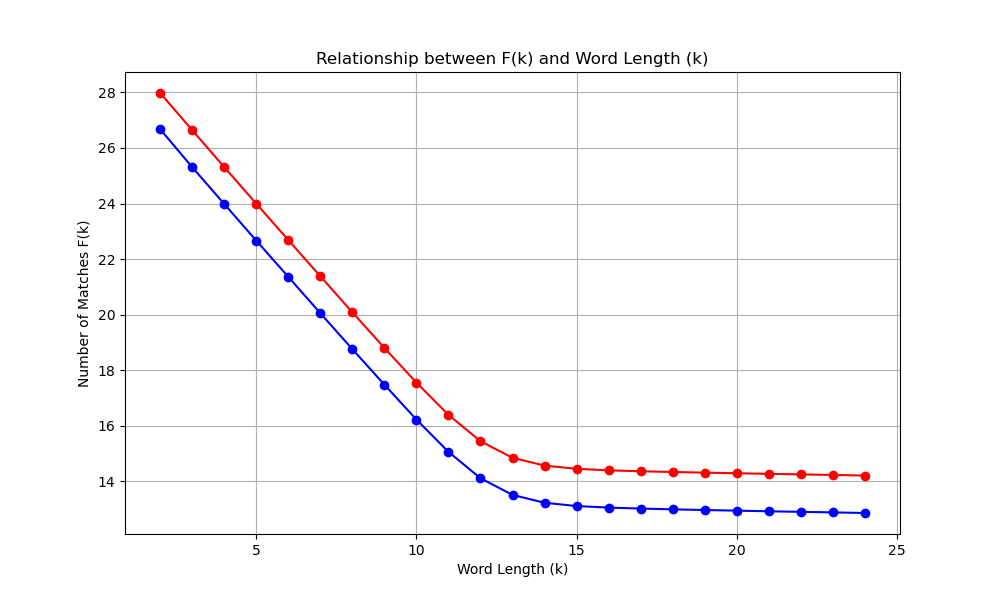
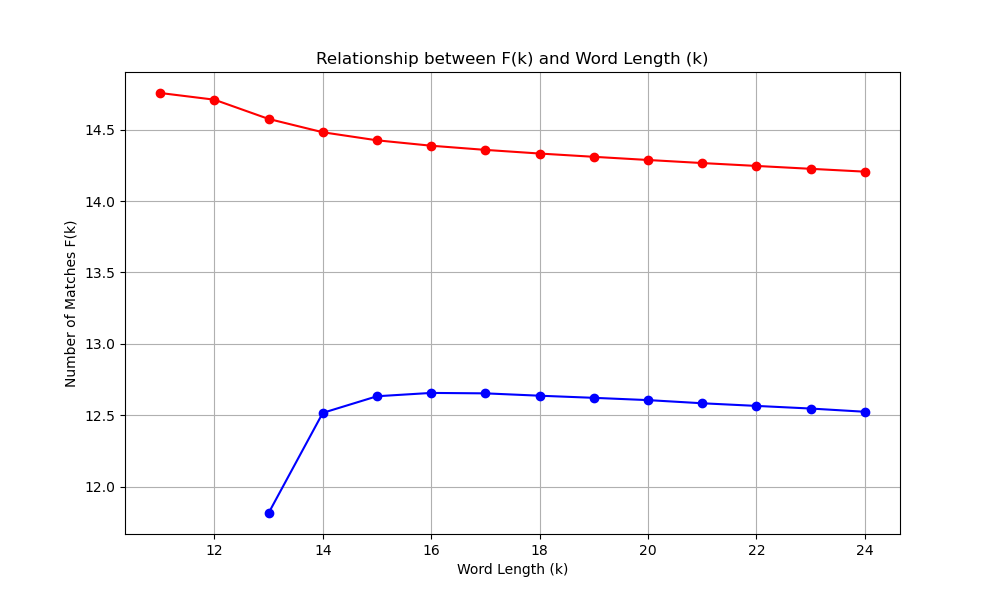
add non-homo + change multi to min

diff --git a/model/F_k_function.py b/model/F_k_function.py
@@ -7,62 +7,175 @@ sys.path.append(project_root)
 import math
 import numpy as np
 from tqdm import tqdm
+
 from model.subsequence_method import *
+from utils.sequence_tool import *
 
+class F_k_function_paper:
+    def __init__(self, seq1: str, seq2: str, method, args):
+        self.method = method
+        self.single_seq = args.get("single_seq", True)
+        self.L_1 = len(seq1)
+        self.L_2 = len(seq2)
+        self.L = (self.L_1 + self.L_2) / 2  # Average length of the two sequences
 
-def calculate_match_probability(seq1: str, seq2: str, show_all_F_k: bool, single_seq: bool, method: str = "basic_kmer") -> float:
-    """
-    Calculate the match probability for different k values using k-mer or spaced-word methods.
-    :param seq1: str, first DNA sequence
-    :param seq2: str, second DNA sequence
-    :param method: str, method to use ('kmer' or 'spaced_word')
-    :return: float, estimated match probability
-    """
-    L = len(seq1)  # Assume seq1 and seq2 have the same length
-    
-    # Calculate k_min and k_max based on the formulas from the paper
-    k_min = math.ceil((math.log(L) + 0.69) / 0.875)
-    k_max = math.floor(math.log(L) / 0.634)
-    
-    match_counts = []
+        # Calculate k_min and k_max based on the formulas from the paper
+        self.k_min = math.ceil((math.log(self.L) + 0.69) / 0.875)
+        self.k_max = math.floor(math.log(self.L) / 0.634)
 
-    if show_all_F_k == True:
-        F_k = []
-        # k_values = list(range(1, 25))
-        k_values = list(range(2, 25))
-        for k in tqdm(k_values, desc="Calculating F(k) for different k values"):
-            if method == "basic_kmer_matches":
-                matches = basic_kmer_matches(seq1, seq2, k, single_seq)
-            elif method == "spaced_word":
-                matches = spaced_word_matches(seq1, seq2, k, single_seq)
-            elif method == "start_ry_matches":
-                matches = start_ry_matches(seq1, seq2, k, single_seq)
+        self.F_k = []
+
+        self.k_values = list(range(2, 25))
+
+        for k in tqdm(self.k_values, desc="Calculating F(k) for different k values"):
+            if self.method == "basic_kmer_matches":
+                matches = basic_kmer_matches(seq1, seq2, k, self.single_seq)
+            elif self.method == "spaced_word":
+                matches = spaced_word_matches(seq1, seq2, k, self.single_seq)
+            elif self.method == "start_ry_matches":
+                matches = start_ry_matches(seq1, seq2, k, self.single_seq)
             else:
                 raise ValueError("Invalid align-free method.")
             
-            match_counts.append(matches)
+            F_k_value = np.log(matches - 2 * self.L_1 * self.L_2 * (1/4)**k)
+            
+            self.F_k.append(F_k_value)
+    
+    def get_F_k(self):
+        return self.F_k
+
+
+class F_k_function_paper_v1:
+    def __init__(self, seq1: str, seq2: str, method, args):
+        self.method = method
+        self.single_seq = args.get("single_seq", True)
+        self.L_1 = len(seq1)
+        self.L_2 = len(seq2)
+        self.L = (self.L_1 + self.L_2) / 2  # Average length of the two sequences
+
+        # Calculate k_min and k_max based on the formulas from the paper
+        self.k_min = math.ceil((math.log(self.L) + 0.69) / 0.875)
+        self.k_max = math.floor(math.log(self.L) / 0.634)
+
+        self.F_k = []
+
+        self.k_values = list(range(2, 25))
+
+        for k in tqdm(self.k_values, desc="Calculating F(k) for different k values"):
+            if self.method == "basic_kmer_matches":
+                matches = basic_kmer_matches(seq1, seq2, k, self.single_seq)
+            elif self.method == "spaced_word":
+                matches = spaced_word_matches(seq1, seq2, k, self.single_seq)
+            elif self.method == "start_ry_matches":
+                matches = start_ry_matches(seq1, seq2, k, self.single_seq)
+            else:
+                raise ValueError("Invalid align-free method.")
+            
             F_k_value = np.log(matches)
-            F_k.append(F_k_value)
-    else:
-        for k in range(k_min, k_max + 1):
-            if method == "basic_kmer":
-                matches = basic_kmer_matches(seq1, seq2, k)
-            elif method == "spaced_word":
-                matches = spaced_word_matches(seq1, seq2, k)
+            
+            self.F_k.append(F_k_value)
+    
+    def get_F_k(self):
+        return self.F_k
+
+
+class F_k_function_v2:
+    def __init__(self, seq1: str, seq2: str, method,  args):
+        self.method = method
+        self.single_seq = args.get("single_seq", True)
+        self.L_1 = len(seq1)
+        self.L_2 = len(seq2)
+        self.L = (self.L_1 + self.L_2) / 2  # Average length of the two sequences
+
+        # Calculate k_min and k_max based on the formulas from the paper
+        self.k_min = math.ceil((math.log(self.L) + 0.69) / 0.875)
+        self.k_max = math.floor(math.log(self.L) / 0.634)
+
+        self.F_k = []
+
+        self.k_values = list(range(2, 25))
+
+
+        for k in tqdm(self.k_values, desc="Calculating F(k) for different k values"):
+            if self.method == "basic_kmer_matches":
+                matches = basic_kmer_matches(seq1, seq2, k, self.single_seq)
+            elif self.method == "spaced_word":
+                matches = spaced_word_matches(seq1, seq2, k, self.single_seq)
+            elif self.method == "start_ry_matches":
+                matches = start_ry_matches(seq1, seq2, k, self.single_seq)
             else:
                 raise ValueError("Invalid align-free method.")
             
-            match_counts.append(matches)
-    
-    # Calculate match probability p, using the slope of F(k) = ln(N_k) between k_min and k_max to estimate the match probability
-    x = np.array([k_min, k_max])
-    y = np.array([match_counts[0], match_counts[-1]]) + 1e-10  # Prevent log(0) by adding a small value
-    slope, _ = np.polyfit(x, np.log(y), 1)  # Calculate slope by fitting log of match counts between k_min and k_max
-    
-    # Estimate match probability p
-    p_hat = np.exp(slope)
+            if self.method == "start_ry_matches":
+                non_homologous_matches = basic_kmer_matches(seq1, reverse_complement(seq1), k, self.single_seq) / 4
+            else:
+                non_homologous_matches = basic_kmer_matches(seq1, reverse_complement(seq1), k, self.single_seq)
 
-    if show_all_F_k == True:
-        return F_k, p_hat
-    else:
-        return p_hat
+            F_k_value = np.log(matches - non_homologous_matches)
+            
+            self.F_k.append(F_k_value)
+    
+    def get_F_k(self):
+        return self.F_k
+
+
+
+
+# def calculate_match_probability(seq1: str, seq2: str, show_all_F_k: bool, single_seq: bool, method: str = "basic_kmer") -> float:
+#     """
+#     Calculate the match probability for different k values using k-mer or spaced-word methods.
+#     :param seq1: str, first DNA sequence
+#     :param seq2: str, second DNA sequence
+#     :param method: str, method to use ('kmer' or 'spaced_word')
+#     :return: float, estimated match probability
+#     """
+#     L_1 = len(seq1)
+#     L_2 = len(seq2)
+#     L = (L_1 + L_2) / 2  # Average length of the two sequences
+    
+#     # Calculate k_min and k_max based on the formulas from the paper
+#     k_min = math.ceil((math.log(L) + 0.69) / 0.875)
+#     k_max = math.floor(math.log(L) / 0.634)
+    
+#     match_counts = []
+
+#     if show_all_F_k == True:
+#         F_k = []
+#         # k_values = list(range(1, 25))
+#         k_values = list(range(2, 25))
+#         for k in tqdm(k_values, desc="Calculating F(k) for different k values"):
+#             if method == "basic_kmer_matches":
+#                 matches = basic_kmer_matches(seq1, seq2, k, single_seq)
+#             elif method == "spaced_word":
+#                 matches = spaced_word_matches(seq1, seq2, k, single_seq)
+#             elif method == "start_ry_matches":
+#                 matches = start_ry_matches(seq1, seq2, k, single_seq)
+#             else:
+#                 raise ValueError("Invalid align-free method.")
+            
+#             match_counts.append(matches)
+#             F_k_value = np.log(matches)
+#             F_k.append(F_k_value)
+#     else:
+#         for k in range(k_min, k_max + 1):
+#             if method == "basic_kmer":
+#                 matches = basic_kmer_matches(seq1, seq2, k)
+#             elif method == "spaced_word":
+#                 matches = spaced_word_matches(seq1, seq2, k)
+#             else:
+#                 raise ValueError("Invalid align-free method.")
+            
+#             match_counts.append(matches)
+    
+#     # Calculate match probability p, using the slope of F(k) = ln(N_k) between k_min and k_max to estimate the match probability
+#     x = np.array([k_min, k_max])
+#     y = np.array([match_counts[0], match_counts[-1]]) + 1e-10  # Prevent log(0) by adding a small value
+#     slope, _ = np.polyfit(x, np.log(y), 1)  # Calculate slope by fitting log of match counts between k_min and k_max
+    
+#     # Estimate match probability p
+#     p_hat = np.exp(slope)
+
+#     if show_all_F_k == True:
+#         return F_k, p_hat
+#     else:
+#         return p_hat

diff --git a/model/subsequence_method.py b/model/subsequence_method.py
@@ -2,12 +2,9 @@ import random
 from collections import Counter
 from typing import List
 
-# 0. tools
-def reverse_complement(sequence: str) -> str:
-    """generate the reverse of seq"""
-    complement = str.maketrans("ACGT", "TGCA") 
-    return sequence.translate(complement)[::-1]  
+from utils.sequence_tool import *
 
+# 0. tools
 def count_kmers(sequences: List[str], k: int) -> Counter:
     """calculate k-mer frequencies in a given sequence"""
     kmers = [sequence[i:i+k] for sequence in sequences for i in range(len(sequence) - k + 1)]
@@ -25,18 +22,6 @@ def count_kmers_start_ry(sequences: List[str], k: int) -> Counter:
             if kmer[0] in purines and kmer[1] in pyrimidines:
                 kmers.append(kmer)
     return Counter(kmers)
-
-def generate_pattern(length):
-    """Generate a random binary pattern of given length."""
-    return ''.join(random.choice(['0', '1']) for _ in range(length))
-
-def extract_spaced_word(sequence: str, pattern: str) -> List[str]:
-    words = []
-    pattern_length = len(pattern)
-    for i in range(len(sequence) - pattern_length + 1):
-        spaced_word = ''.join(sequence[i+j] for j in range(pattern_length) if pattern[j] == '1')
-        words.append(spaced_word)
-    return words
 
 # 1. basic k-mer matches
 def basic_kmer_matches(seq1: str, seq2: str, k: int, single_seq: bool) -> int:
@@ -87,5 +72,6 @@ def start_ry_matches(seq1: str, seq2: str, k: int, single_seq: bool) -> int:
     matches = 0
     for kmer in kmer_count1:
         if kmer in kmer_count2:
-            matches += kmer_count1[kmer] * kmer_count2[kmer]
+            # matches += kmer_count1[kmer] * kmer_count2[kmer]
+            matches += min(kmer_count1[kmer], kmer_count2[kmer])
     return matches

diff --git a/script/figure_2.py b/script/figure_2.py
@@ -4,7 +4,7 @@ current_dir = os.path.dirname(os.path.abspath(__file__))
 project_root = os.path.abspath(os.path.join(current_dir, os.pardir))
 sys.path.append(project_root)
 from utils.file_system import load_sequences
-from model.F_k_function import calculate_match_probability
+from model.F_k_function import *
 
 import yaml
 import matplotlib.pyplot as plt
@@ -18,20 +18,18 @@ def main():
 
     data_path = args.get("data_path", "../dataset/test.fasta")
     figure_output_path = args.get("figure_output_path", "../result/figure/")
-    show_all_F_k = args.get("show_all_F_k", True)
-    single_seq = args.get("single_seq", True)
 
     seq_list = load_sequences(data_path)
 
-    F_k, _ = calculate_match_probability(seq_list[0], seq_list[1], show_all_F_k, single_seq, "start_ry_matches")
-    F_k_2, _ = calculate_match_probability(seq_list[0], seq_list[1], show_all_F_k, single_seq, "basic_kmer_matches")
+    F_k_v2 = F_k_function_v2(seq_list[0], seq_list[1], "start_ry_matches", args).get_F_k()
+    F_k_paper = F_k_function_paper(seq_list[0], seq_list[1], "basic_kmer_matches", args).get_F_k()
 
     # k_values = list(range(1, 25))
     k_values = list(range(2, 25))
 
     plt.figure(figsize=(10, 6))
-    plt.plot(k_values[:len(F_k)], F_k, marker='o', linestyle='-', color='b', label='start_ry_matches')
-    plt.plot(k_values[:len(F_k_2)], F_k_2, marker='o', linestyle='-', color='r', label='basic_kmer_matches')
+    plt.plot(k_values[:len(F_k_v2)], F_k_v2, marker='o', linestyle='-', color='b', label='start_ry_matches')
+    plt.plot(k_values[:len(F_k_paper)], F_k_paper, marker='o', linestyle='-', color='r', label='basic_kmer_matches')
 
     plt.xlabel('Word Length (k)')
     plt.ylabel('Number of Matches F(k)')

diff --git a/utils/sequence_tool.py b/utils/sequence_tool.py
@@ -1,4 +1,5 @@
 import random
+from typing import List
 
 def generate_random_sequence(length: int) -> str:
     """generate a random DNA sequence of a given length"""
@@ -12,3 +13,21 @@ def mutate_sequence(sequence: str, mutation_rate: float) -> str:
         if random.random() < mutation_rate:
             mutated_sequence[i] = random.choice('ACGT'.replace(mutated_sequence[i], ''))
     return ''.join(mutated_sequence)
+
+def reverse_complement(sequence: str) -> str:
+    """generate the reverse of seq"""
+    complement = str.maketrans("ACGT", "TGCA") 
+    return sequence.translate(complement)[::-1]  
+
+# For spaced-word matches
+def generate_pattern(length):
+    """Generate a random binary pattern of given length."""
+    return ''.join(random.choice(['0', '1']) for _ in range(length))
+
+def extract_spaced_word(sequence: str, pattern: str) -> List[str]:
+    words = []
+    pattern_length = len(pattern)
+    for i in range(len(sequence) - pattern_length + 1):
+        spaced_word = ''.join(sequence[i+j] for j in range(pattern_length) if pattern[j] == '1')
+        words.append(spaced_word)
+    return words
